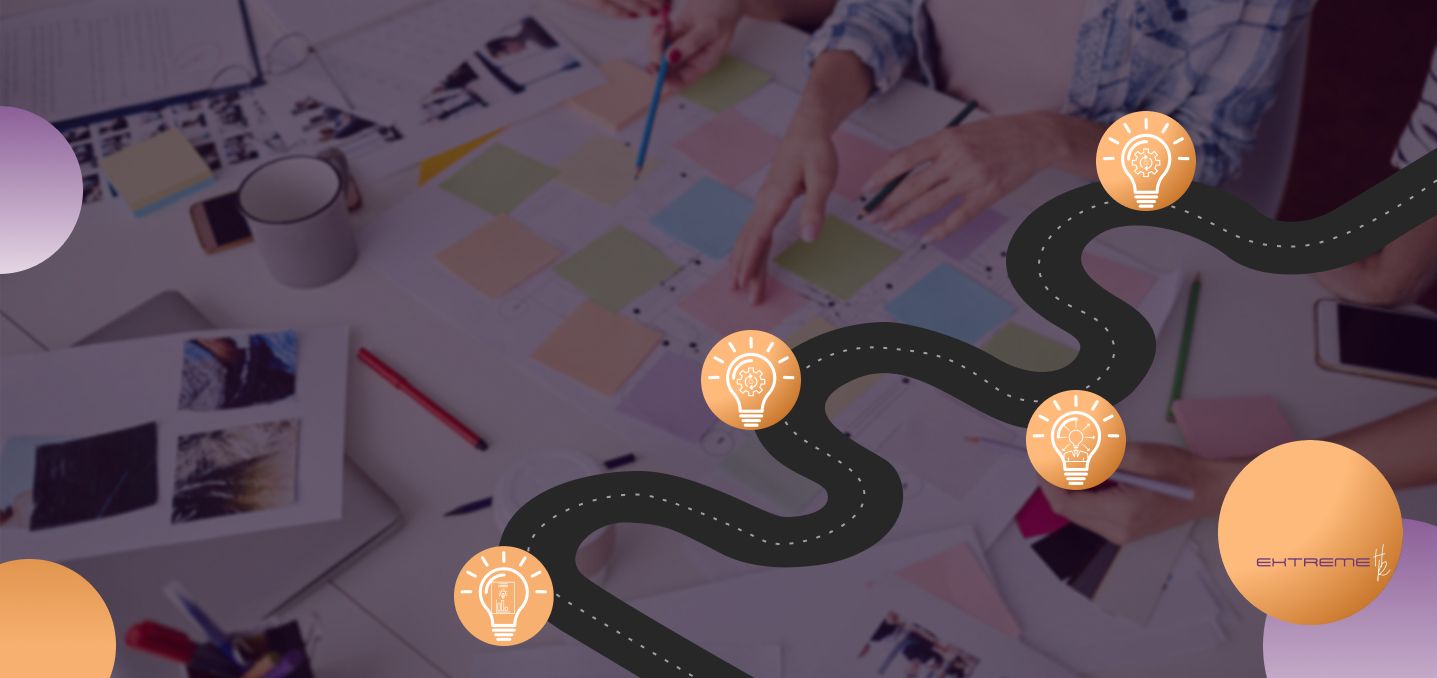
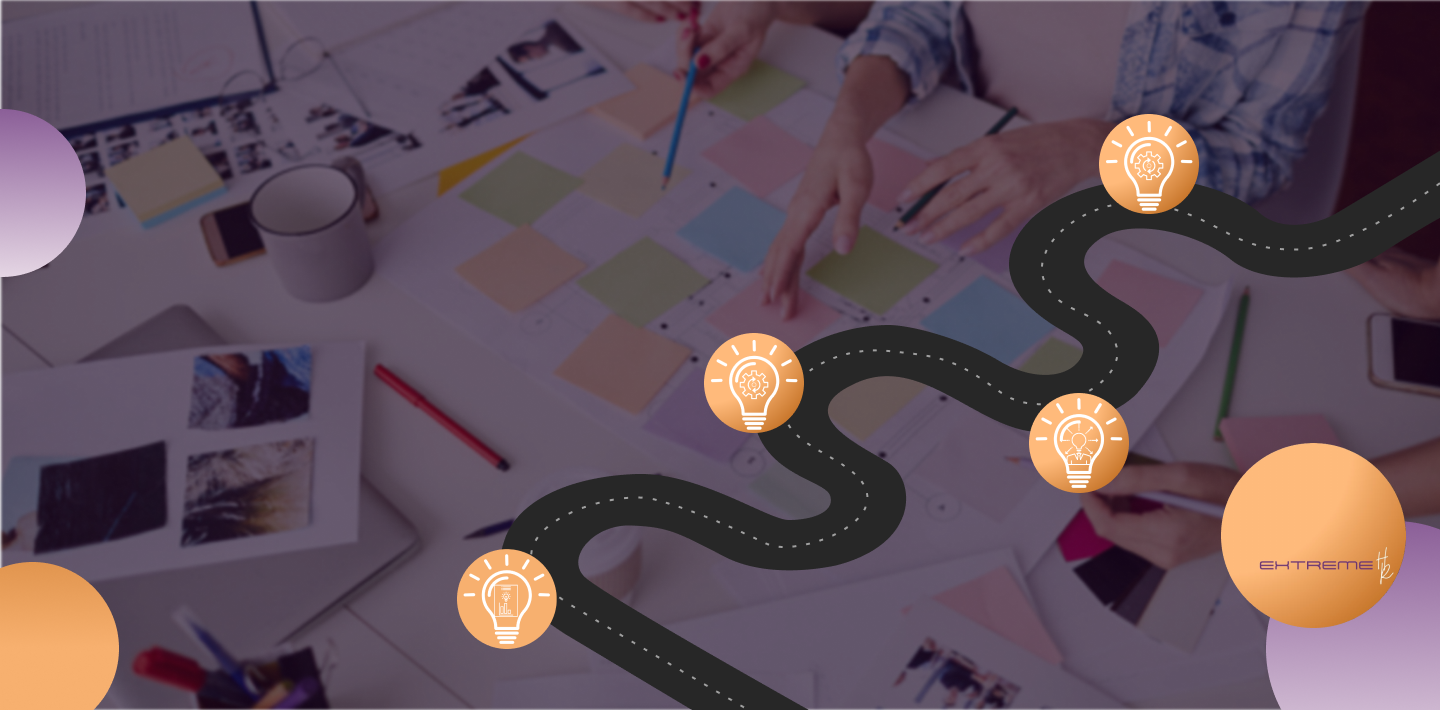
mobile responsive

diff --git a/style.css b/style.css
@@ -22,11 +22,12 @@
   font-style: normal;
 }
 
-html {
+* {
   scroll-behavior: smooth;
-}
-body {
   font-family: "Pragmatica", Arial, sans-serif;
+  margin: 0;
+  padding: 0;
+  box-sizing: border-box;
 }
 
 header {
@@ -114,42 +115,69 @@ header {
   }
 }
 
-.hero-section {
-  img {
-    width: 100%;
-    height: auto;
-    display: block;
-  }
+.hero {
+  display: flex;
+  align-items: center;
+  justify-content: flex-start; /* Alinea el contenido a la izquierda */
+  height: 100vh;
+  padding: 0 140px 0 140px;
+  background-image: url("img/hero.png"); /* Usa aquí tu imagen de fondo */
+  background-size: cover;
+  position: relative;
 
-  .overlay {
-    position: absolute;
-    top: 50%;
-    left: 23%;
-    transform: translate(-50%, -50%);
-    color: #fff; /* Texto en color blanco */
+  .hero-content {
+    display: flex;
+    flex-direction: column;
+    justify-content: center;
+    align-items: flex-start; /* Alinea el contenido a la izquierda */
+    text-align: left; /* Alinea el texto a la izquierda */
+    max-width: 600px;
     padding: 20px;
-  }
 
-  .overlay h1 {
-    font-size: 4.5rem;
-    text-align: left;
-    margin-bottom: 20px;
-    font-family: "Pragmatica", sans-serif;
-  }
+    .text-content {
+      h1 {
+        font-size: clamp(3rem, 4vw, 10rem); /* Tamaño de fuente responsivo */
+        color: white;
+        margin-bottom: 20px;
+      }
 
+      .cta-button {
+        padding: 10px 30px;
+        background-color: #6b367b;
+        color: white;
+        text-decoration: none;
+        font-weight: bold;
+        border-radius: 30px;
+        font-size: clamp(1rem, 2vw, 1.2rem); /* Tamaño del botón responsivo */
+        transition: background-color 0.3s ease;
+
+        &:hover {
+          background-color: #522a63;
+        }
+      }
+    }
+  }
+}
+
+/* Responsiveness */
+@media (max-width: 768px) {
+  .hero {
+    height: auto;
+    padding: 40px 20px;
+
+    .hero-content {
+      max-width: 100%;
+    }
+
+    .cta-button {
+      padding: 10px 20px;
+    }
+  }
+}
+
+@media (max-width: 480px) {
   .cta-button {
-    background-color: #6b367b;
-    color: #fff;
-    padding: 12px 64px;
-    text-decoration: none;
-    font-size: 1.5rem;
-    border-radius: 25px;
-    font-weight: 700;
-    font-family: "Pragmatica", sans-serif;
-  }
-
-  .cta-button:hover {
-    background-color: #562a63;
+    padding: 8px 16px;
   }
 }
 
@@ -378,6 +406,7 @@ header {
     display: -webkit-box;
     display: -ms-flexbox;
     display: flex;
+    text-align: center;
     -webkit-box-orient: vertical;
     -webkit-box-direction: normal;
     -ms-flex-direction: column;
@@ -785,8 +814,6 @@ header {
           height: 16px;
           color: #6b367b;
           padding: 8px;
-          border-radius: 16px;
-          border: #6b367b 1px solid;
         }
       }
     }
@@ -893,6 +920,7 @@ footer {
   .info {
     display: flex;
     gap: 3rem;
+    flex-wrap: wrap;
     .contact-info {
       display: flex;
       flex-direction: column;
@@ -946,6 +974,11 @@ footer {
   .solutions-section {
     margin: 1rem 0 1rem 0;
     display: flex;
+
+    .solutions {
+      padding: 0 1rem 0 1rem;
+      gap: 2rem;
+    }
   }
 
   .aboutus-section {
@@ -984,6 +1017,11 @@ footer {
     padding: 5rem 1rem 5rem 1rem;
     justify-content: center;
     gap: 2rem;
+
+    .contact-info {
+      gap: 1rem;
+      flex-wrap: wrap;
+    }
   }
 
   .mision-section {
@@ -1006,7 +1044,10 @@ footer {
       .img-container {
         margin-top: 2rem;
         justify-content: center;
-        max-width: none;
+        width: auto;
+        img {
+          width: -webkit-fill-available;
+        }
       }
 
       .text h3 {
@@ -1038,7 +1079,8 @@ footer {
   .team-section {
     padding: 5rem 1rem 5rem 1rem;
     .cards {
-      justify-content: space-between;
+      flex-wrap: wrap;
+      justify-content: center;
     }
   }
 

diff --git a/index.html b/index.html
@@ -44,23 +44,19 @@
           <li><a href="#contact">Contacto</a></li>
           <li><a href="#team">Equipo</a></li>
         </ul>
-        <a href="" class="btnContact">Contactanos</a>
+        <a href="" class="cta-button">Contactanos</a>
       </div>
     </nav>
   </header>
 
-  <div class="hero-section">
-    <img src="img/hero.png" alt="" />
-    <div class="overlay">
-      <h1>
-        ¡Impulsa el <br />
-        Crecimiento de tu <br />
-        Empresa con <br />
-        Extreme HR!
-      </h1>
-      <a href="#contacto" class="cta-button">Contáctanos</a>
+  <section class="hero">
+    <div class="hero-content">
+      <div class="text-content">
+        <h1>¡Impulsa el crecimiento de tu empresa con Extreme HR!</h1>
+        <a href="#" class="cta-button">Contáctanos</a>
+      </div>
     </div>
-  </div>
+  </section>
 
   <section class="solutions-section">
     <div class="title-sections">
@@ -387,16 +383,19 @@
           </div>
           <div class="content">
             <p class="heading">
-              Técnica en Recursos Humanos
+              Lic. en Gestión de RR.HH
             </p>
             <p class="heading">
-              Facilitadora de aprendizajes
+              Lic. en Administración
             </p>
             <p class="heading">
-              Profesional en Marketing digital
+              Coach Ontológico
             </p>
             <p class="heading"> 
-              Coach Ontológico
+              Scrum Máster certificada
+            </p>
+            <p class="heading">
+              Ágile Expert
             </p>
           </div>
         </div>
@@ -421,20 +420,18 @@
           </div>
           <div class="content">
             <p class="heading">
-              Lic. en Gestión de RR.HH
+              Técnica en Recursos Humanos
             </p>
             <p class="heading">
-              Lic. en Administración
+              Facilitadora de aprendizajes
             </p>
             <p class="heading">
-              Coach Ontológico
+              Profesional en Marketing digital
             </p>
             <p class="heading"> 
-              Scrum Máster certificada
+              Coach Ontológico
             </p>
-            <p class="heading">
-              Ágile Expert
-            </p>
+
           </div>
         </div>
       </div>
